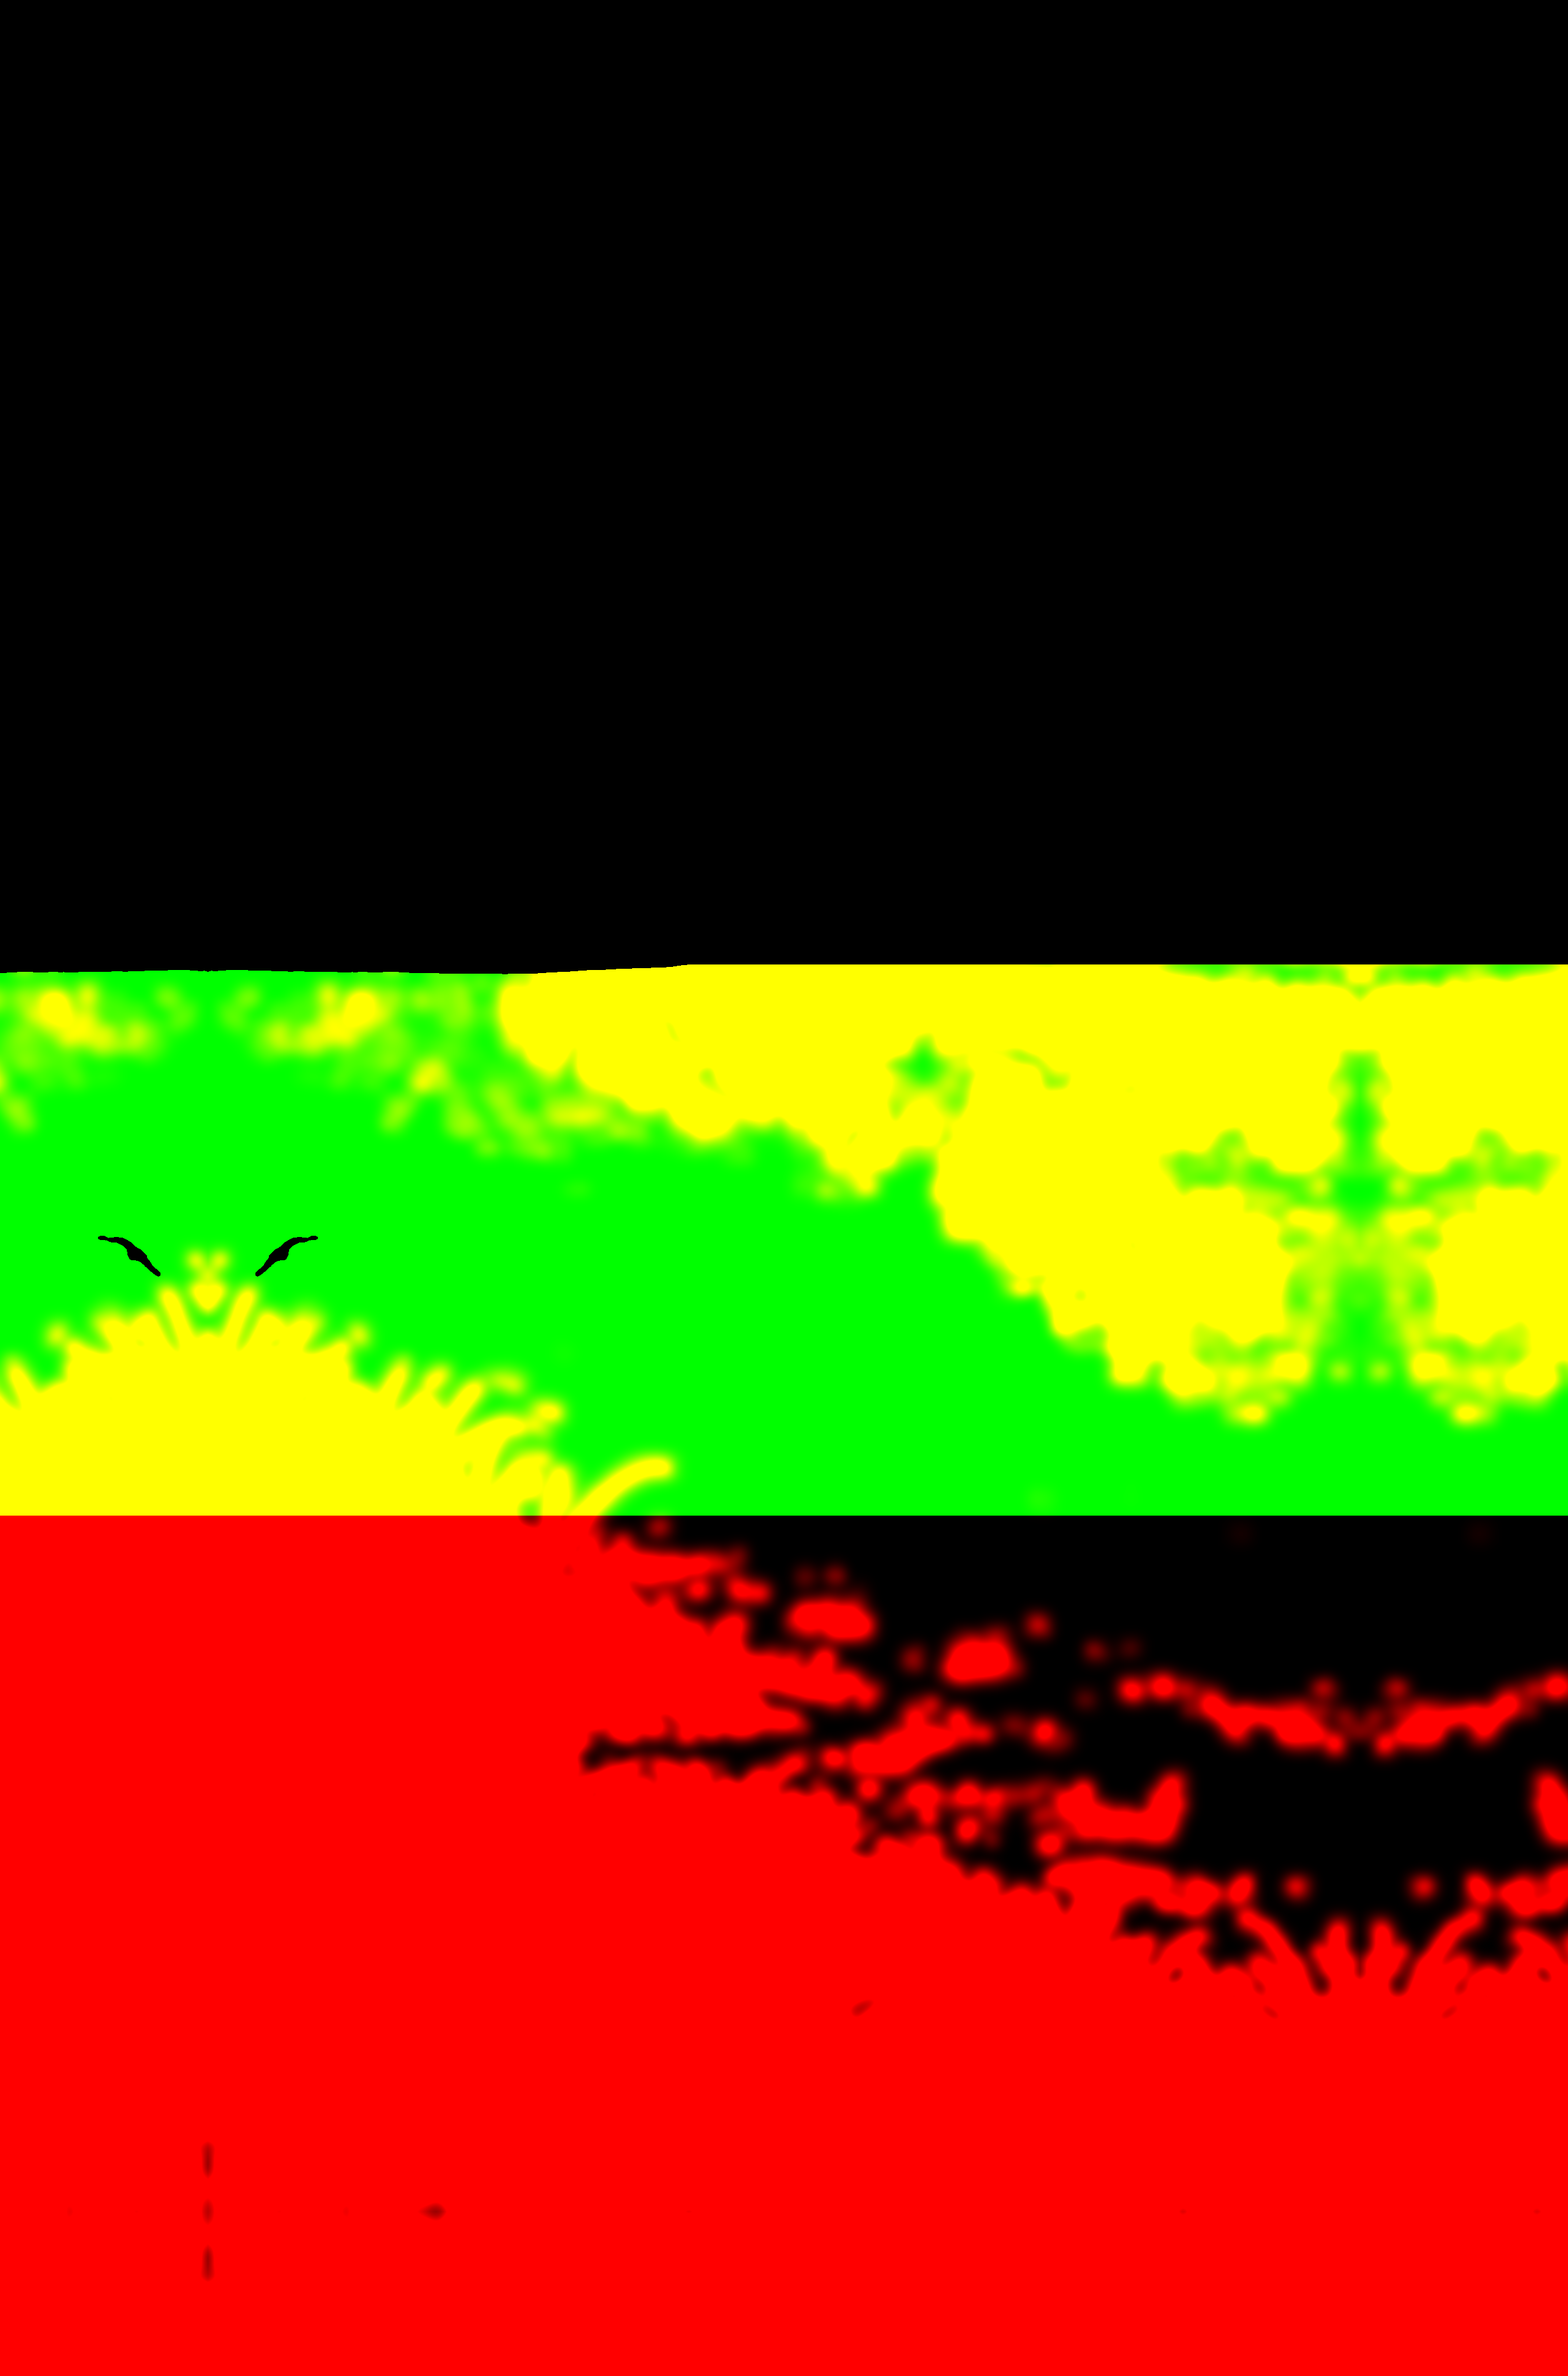
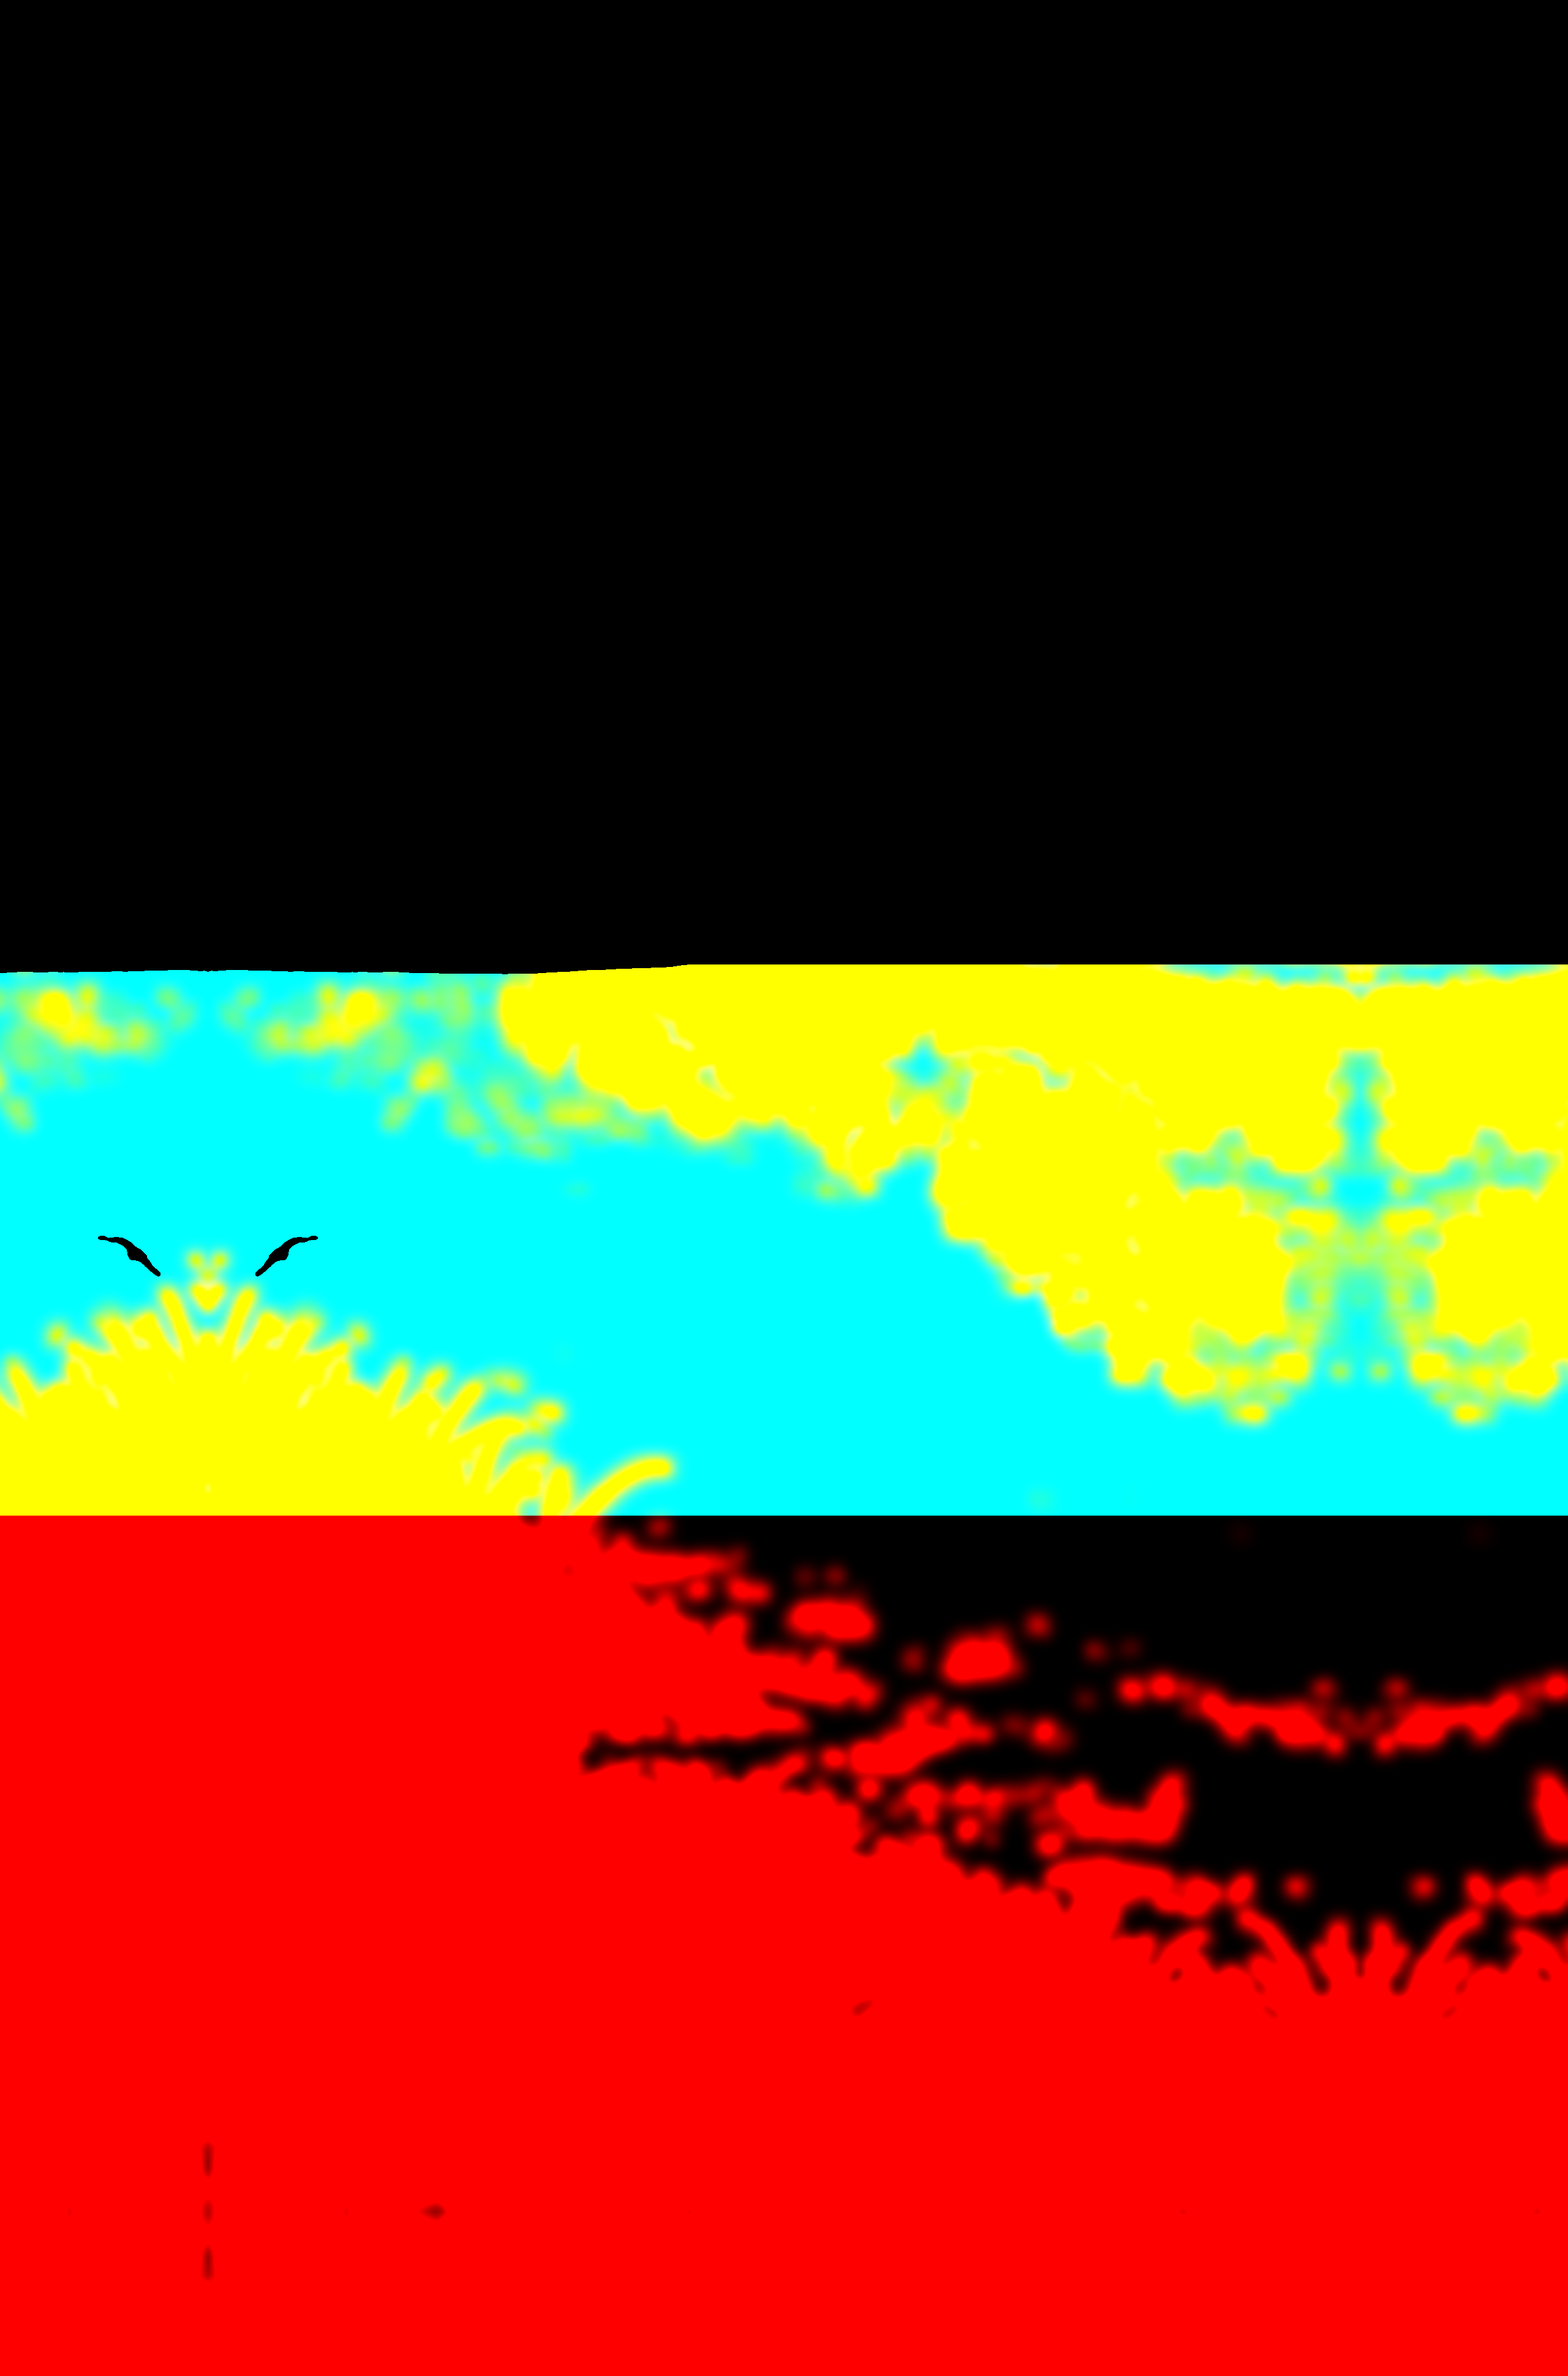
Painted water moves like water: motion.water boxes, ripple shader on six lake and river sets
Jonny 8 Nov: "for the background movement the water should move like water too".
spec motion.water boxes -> masks.py water_mask -> blue motion channel; set-plate.js
waterGLSL (used by animate and the life layer, world-space ripples there) rolls
wind ripples toward the shore with crest glints and darker troughs. Sets without
water boxes have blue 0 and draw the same (golden: 12 stills + 5 strips unchanged).

Claude-Session: https://claude.ai/code/session_01KjyEUMfmKHodBiUR5MGzuM

Changed region(s): [[0.0, 0.4054, 1.0, 0.6549]]

diff --git a/engine/page/set-plate.js b/engine/page/set-plate.js
@@ -146,6 +146,31 @@ function relief(img, w, h, x, y, z, P) {
   return geo;
 }
 
+// open water (motion mask blue, env.py motion.water boxes), like a lake on a breezy day: rows of small wind
+// ripples roll toward the shore, each one bending the painted reflection a little sideways and catching the sky as a
+// short bright dash, with darker troughs between them. P: the water plane in metres (the life layer's world position),
+// so the ripples shrink with distance by themselves; without it they are laid out in the painting's own rows. Ripples
+// finer than a pixel fade out (fwidth), so the far water only glints. T: the shader's time; F: a frequency as GLSL
+// (loop-safe folding); UV: where the pixel is sampled before the water moves it; AMP: a strength factor (gusts).
+// With mo.b 0 nothing changes.
+export const waterGLSL = (T, F, UV, AMP = "1.0", P = null) => /* glsl */`
+      if (mo.b > 0.004) {
+        vec2 wp = ${P ?? "vec2(vMapUv.x * 60.0, 0.6 / max(0.05, 1.0 - vMapUv.y))"};
+        float wa = wp.y * 7.5 + sin(wp.x * 0.55 + ${T} * ${F(0.4)}) * 1.6 + sin(wp.x * 1.9 - wp.y * 0.7 + ${T} * ${F(0.7)}) * 0.6 - ${T} * ${F(2.2)};
+        float wb = wp.y * 2.4 - wp.x * 0.35 + sin(wp.x * 0.23 - ${T} * ${F(0.25)}) * 2.0 + ${T} * ${F(1.1)};
+        float fa = 1.0 - smoothstep(0.6, 1.6, fwidth(wa)), fb = 1.0 - smoothstep(0.6, 1.6, fwidth(wb));
+        float dash = smoothstep(0.1, 0.7, sin(wp.x * 2.3 + wp.y * 1.1 - ${T} * ${F(0.6)}) * 0.6 + sin(wp.x * 0.9 - wp.y * 1.7 + ${T} * ${F(0.45)}) * 0.6);
+        float sa = sin(wa) * fa, sb = sin(wb) * fb, wn = mo.b * (${AMP});
+        vec2 wd = vec2(sa * (0.4 + dash) * 9.0 + sb * 6.0, cos(wa) * fa * 2.5) * uPx * wn;
+        sampledDiffuseColor = texture2D(map, ${UV} + wd);
+        float wl = dot(sampledDiffuseColor.rgb, vec3(0.3, 0.59, 0.11));
+        float crest = smoothstep(0.55, 0.95, sa) * dash, trough = smoothstep(0.5, 0.95, -sa) * (0.3 + 0.7 * dash);
+        sampledDiffuseColor.rgb = mix(sampledDiffuseColor.rgb, vec3(0.86, 0.93, 1.0), crest * wn * (0.14 + 0.3 * smoothstep(0.3, 0.8, wl)));
+        sampledDiffuseColor.rgb *= 1.0 - trough * wn * 0.14 + sb * wn * 0.04;
+        float wf = (1.0 - fa) * (1.0 - fb) * dash * wn;
+        sampledDiffuseColor.rgb += wf * smoothstep(0.4, 0.8, wl) * 0.12 * (0.5 + 0.5 * sin(wp.x * 7.0 + ${T} * ${F(1.7)}));
+      }`;
+
 // leaves sway and sunlight shimmers, read from the motion mask, in the plate's own shader. With loop-safe idle
 // (util.js loopNow) every rhythm, the shimmer's drift included, turns a whole number of times over the clip.
 // o.amp: how far a leaf sways, in texels (default 3); o.key: a shader cache name per user (set-env.js layers).
@@ -166,7 +191,7 @@ export function animate(mat, motion, width, o = {}) {
       float ph = vMapUv.x * 23.0 + vMapUv.y * 11.0;   // nearby leaves move together, far ones out of step
       vec2 sway = vec2(sin(uTime * ${loopNow() ? f(1.3) : "1.3"} + ph) * 0.7 + sin(uTime * ${loopNow() ? f(3.7) : "3.7"} + ph * 2.1) * 0.3,
                        sin(uTime * ${loopNow() ? f(1.9) : "1.9"} + ph * 1.3) * 0.35) * uPx * ${(o.amp ?? 3).toFixed(2)};
-      vec4 sampledDiffuseColor = texture2D(map, vMapUv + sway * mo.r);${shimmer}
+      vec4 sampledDiffuseColor = texture2D(map, vMapUv + sway * mo.r);${waterGLSL("uTime", (w) => (loopNow() ? f(w) : w.toFixed(2)), "vMapUv + sway * mo.r")}${shimmer}
       sampledDiffuseColor.rgb *= 1.0 + mo.g * n * 0.07;   // leaf shadows passing over the sun patches
       diffuseColor *= sampledDiffuseColor;`);
     sh.fragmentShader = "uniform float uTime; uniform sampler2D uMotion; uniform float uPx;\n" + sh.fragmentShader;

diff --git a/engine/page/set-life.js b/engine/page/set-life.js
@@ -1,6 +1,7 @@
 import * as THREE from "three";
 import { lifeRng, gustAt, leaveTime, GUST_MAX } from "../shared/life.js";
 import { envCamera } from "./set-env.js";
+import { waterGLSL } from "./set-plate.js";
 
 // The living world (set "life", opt-in, 7 Nov 2026; research and plan in
 // /mnt/project-files/research/living-worlds-2026-11-07): the painted set breathes and answers the cast.
@@ -90,7 +91,7 @@ export function lifeLayer(mat, motion, width, o = {}) {
       vec2 sway = vec2(sin(uLifeT * 1.3 + ph) * 0.7 + sin(uLifeT * 3.7 + ph * 2.1) * 0.3 + sin(uLifeT * 5.3 + ph * 3.7) * 0.35 * gx,
                        sin(uLifeT * 1.9 + ph * 1.3) * 0.35) * k;
       sway.x -= gx * 0.9;                                           // leaning downwind (+x): the picture is sampled upwind
-      vec4 sampledDiffuseColor = texture2D(map, vMapUv + sway * uPx * ${amp} * mo.${ch});${far ? "" : /* glsl */`
+      vec4 sampledDiffuseColor = texture2D(map, vMapUv + sway * uPx * ${amp} * mo.${ch});${far ? "" : waterGLSL("uLifeT", (w) => w.toFixed(2), `vMapUv + sway * uPx * ${amp} * mo.r`, "1.0 + 0.8 * gx", "vLifeW.xz")}${far ? "" : /* glsl */`
       vec2 q = vMapUv * vec2(5.0, 9.0) + vec2(uLifeT * 0.21, -uLifeT * 0.08);
       float n = sin(q.x * 2.3 + sin(q.y * 1.7 + uLifeT * 0.6)) * sin(q.y * 1.9 - sin(q.x * 1.3 - uLifeT * 0.4));
       sampledDiffuseColor.rgb *= 1.0 + mo.g * n * (0.05 + 0.05 * gx);`}

diff --git a/engine/plates/env.py b/engine/plates/env.py
@@ -28,7 +28,7 @@ from PIL import Image, ImageFilter
 
 HERE = os.path.dirname(os.path.abspath(__file__))
 sys.path.insert(0, HERE)
-from masks import motion_masks, review as mask_review, ramp, grow
+from masks import motion_masks, water_mask, review as mask_review, ramp, grow
 
 NEG = ("people, person, character, animal, text, watermark, logo, signature, frame, border, 3d render, cgi, "
        "photo, photorealistic, blurry, lowres, deformed, oversaturated, harsh contrast")
@@ -322,6 +322,7 @@ def split(S):
     cards, motion_all = [], np.zeros((H, W, 3))
     ov = S.get("motion", {})
     sway, shimmer, still = motion_masks(img, ov, scale=W / 1000)
+    water = water_mask(img, ov, scale=W / 1000)   # motion blue: open water ripples (spec motion.water boxes)
     fill_px = int(round(W * S.get("fill", 0.03)))   # how far each layer continues under the ones in front
     after = [np.zeros((H, W), bool)]   # after[k]: everything nearer than layer k (the layers come far to near)
     for _, m, _, _, _ in reversed(layers): after.insert(0, after[0] | m)
@@ -350,8 +351,8 @@ def split(S):
         # motion per layer: foliage sways on its own layer only (a tree's card, the meadow's ground)
         # far away (hills, the sky) nothing visibly sways: a leaf's sway is a few centimetres
         moves = not is_sky and Zi <= S.get("swayMax", 30)
-        mo = np.dstack([sway * m, shimmer * m, np.zeros((H, W))]) * moves
-        if moves and mo[..., 0].max() > 0.05:
+        mo = np.dstack([sway * m, shimmer * m, water * m]) * moves
+        if moves and (mo[..., 0].max() > 0.05 or mo[..., 2].max() > 0.05):
             mo_p = extend(mo)[y0:y1, x0:x1]
             mfn = f"layer-{i}-{lname}.motion.png"
             Image.fromarray((mo_p * 255).astype(np.uint8)).save(out(S, mfn))
@@ -381,9 +382,9 @@ def split(S):
     gcol = np.where(ground_3d[..., None], rgb, pull_push(rgb, gm))
     gfn = "ground.webp"
     Image.fromarray((np.clip(extend(gcol), 0, 1) * 255).round().astype(np.uint8)).save(out(S, gfn), quality=S.get("quality", 92), method=4)
-    gmo = extend(np.dstack([sway * ground_3d, shimmer * ground_3d, np.zeros((H, W))]))
+    gmo = extend(np.dstack([sway * ground_3d, shimmer * ground_3d, water * ground_3d]))
     Image.fromarray((gmo * 255).astype(np.uint8)).save(out(S, "ground.motion.png"))
-    motion_all += np.dstack([sway * ground_3d, shimmer * ground_3d, np.zeros((H, W))])
+    motion_all += np.dstack([sway * ground_3d, shimmer * ground_3d, water * ground_3d])
     # the farthest row the 3D floor reaches (above it the cards take over)
     # the row where the ground plane is gmax away: 1/gmax = (f sin p - yc cos p) / (h f)
     yc_far = (f * math.sin(pitch) - h * f / gmax) / math.cos(pitch)

diff --git a/engine/plates/masks.py b/engine/plates/masks.py
@@ -80,6 +80,18 @@ def motion_masks(img, ov=None, depth=None, scale=None, grow_px=None):
     return leaf, sun, still
 
 
+def water_mask(img, ov=None, scale=None):
+    """-> 0..1: open water that ripples (motion mask blue). ov["water"]: boxes over the lake or river; plants painted
+    in them (reeds, overhanging leaves) and "still" boxes (a rock, a jetty) are left out"""
+    ov = ov or {}
+    W, H = img.size
+    scale = scale or W / 1000
+    wb = boxes_to_mask(ov.get("water"), W, H)
+    if wb.max() <= 0: return wb
+    leaf = np.clip(grow(foliage(img, scale), max(2, int(round(3 * scale)))) * 1.5, 0, 1)
+    return np.clip(wb * (1 - leaf) * (1 - boxes_to_mask(ov.get("still"), W, H)), 0, 1)
+
+
 def review(img, sway, shimmer, still_boxes, out, title=""):
     """the picture dimmed to grey, sway painted red, shimmer yellow, still boxes outlined in cyan"""
     base = np.asarray(img.convert("L").convert("RGB")).astype(float) / 255 * 0.55 + 0.2

diff --git a/docs/STORYBOARD.md b/docs/STORYBOARD.md
@@ -350,6 +350,11 @@ shots). Each beat without a `shot` gets one from its `kind` and who acts in it:
   `birds`, `startle`, `wind`, `clouds`, `bend`, `rain`: engine/shared/life.js). Background life stays in the
   background: never put birds or insects in front of the cast. About 5 % more drawing time per frame. A plain or room
   set ignores it for now. Engine tests: storyboards/env/make-living-meadow.mjs, make-life-auto-tests.mjs.
+  Painted water moves too (Jonny 8 Nov: "the water should move like water"): an env whose spec.json marks its water
+  (`"motion": { "water": [[x0, y0, x1, y1]], "still": [rocks] }`, fractions of the painting; env.py writes it into the
+  motion mask's blue channel) gets rows of wind ripples rolling toward the shore, the reflection bending under them,
+  bright dashes on the crests (set-plate.js `waterGLSL`). Marked: lake-shore, lake-sunset, river-calm, river-rapids,
+  river-meadow, waterfall-pool. Rivers don't flow downstream yet.
 - After an insert, low angle, over-the-shoulder, top-down or establishing shot the payoff's snap-in cuts on its action to its own framing 15 % wider and snaps in
   from there (a push from the low camera would fly across the room).
 - **No jump cuts**: when the next framing is too close to the current one for a cut (less than 1.4× in size), the
